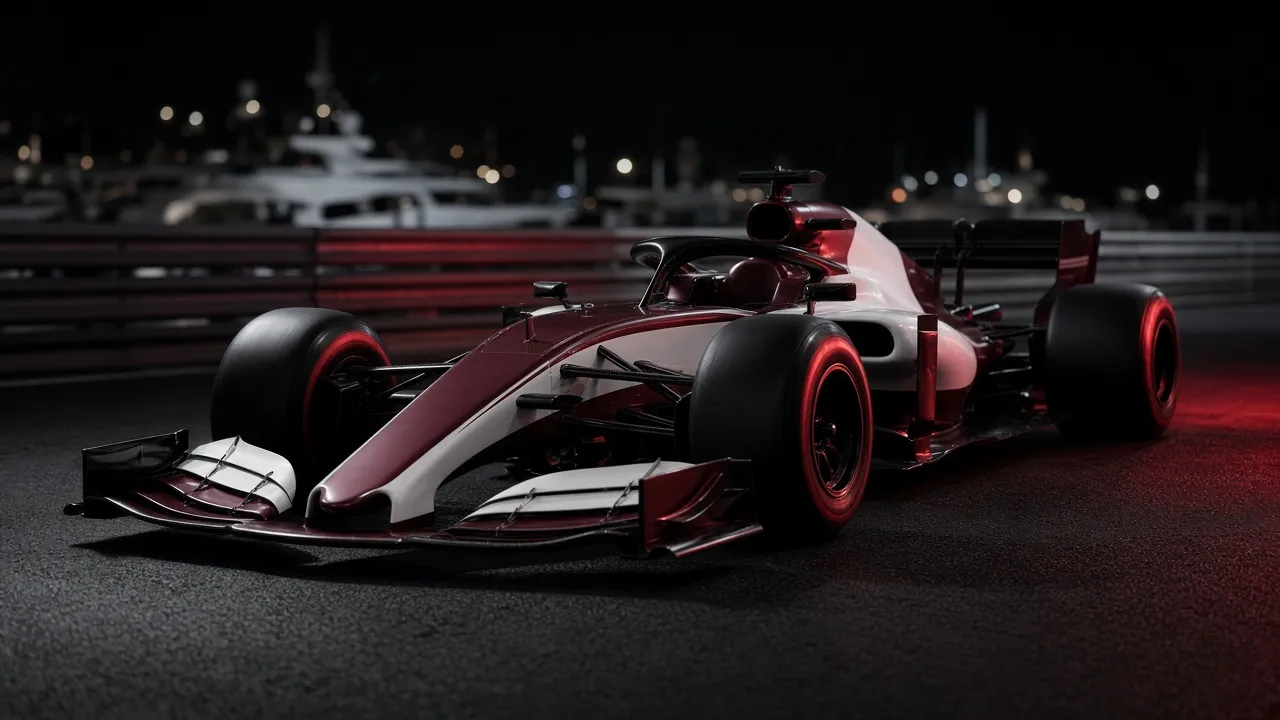
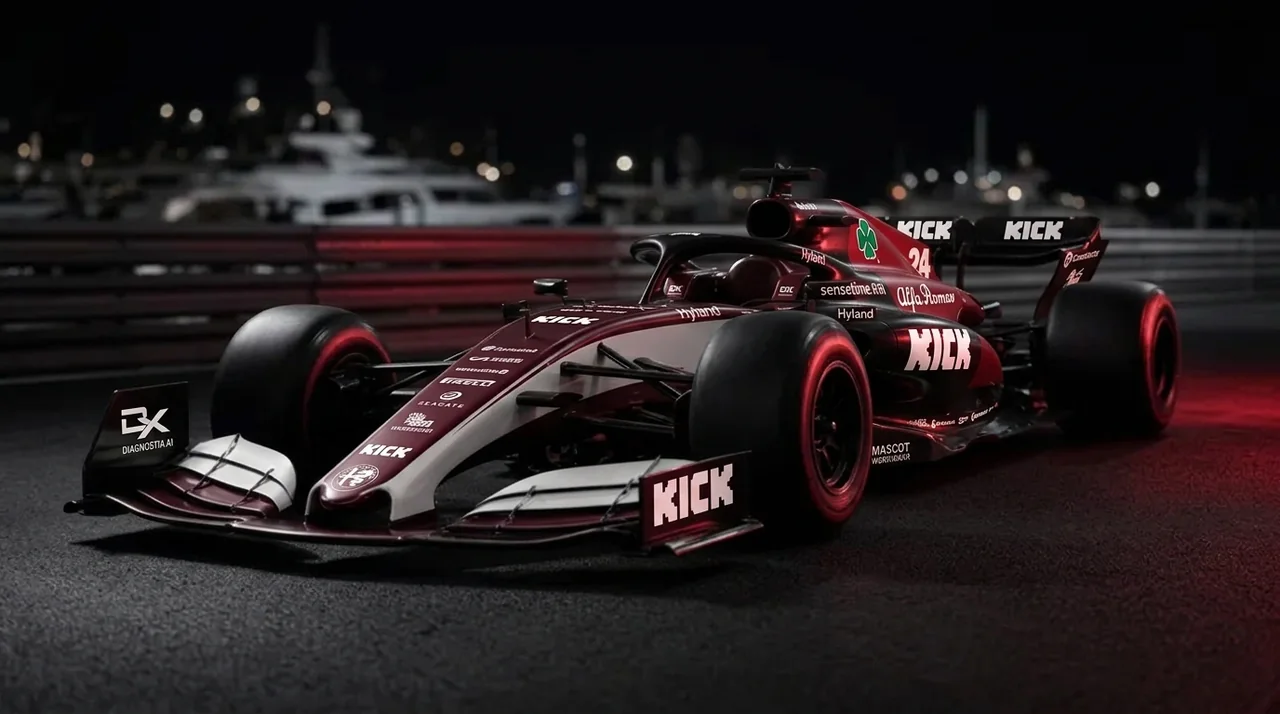
Landing: imagens dos carros com marcas oficiais (webp 1280/640 + fontes jpg)
Substitui as 4 imagens .webp usadas no site pelas versões com marcas
oficiais das equipes e adiciona os 2 arquivos .jpg fonte. Atualiza o
LEIA-ME.md para documentar que as imagens dos carros exibem marcas
oficiais e o vídeo do topo segue sendo ilustração gerada por IA.

diff --git a/landing/LEIA-ME.md b/landing/LEIA-ME.md
@@ -6,4 +6,4 @@
 - `imagens/`: screenshots de teste (desktop e mobile).
 - Teste local: `python -m http.server 8080` dentro de `landing/` (abrir o index.html direto com duplo clique NÃO funciona, porque o navegador bloqueia a leitura dos CSVs).
 - Deploy: veja `GUIA_DEPLOY.md`, seção 6.
-- `assets/`: carro_vermelho/carro_grena (.webp + _640), onboard.mp4/.webm (fundo do topo, sem áudio) e onboard_poster.webp — ilustrações GERADAS POR IA, carros genéricos sem marcas.
+- `assets/`: carro_vermelho/carro_grena (webp 1280w + 640w; fonte `_640.jpg`), onboard.mp4/.webm (fundo do topo, sem áudio) e onboard_poster.webp — imagens dos carros com marcas oficiais; vídeo é ilustração gerada por IA.
